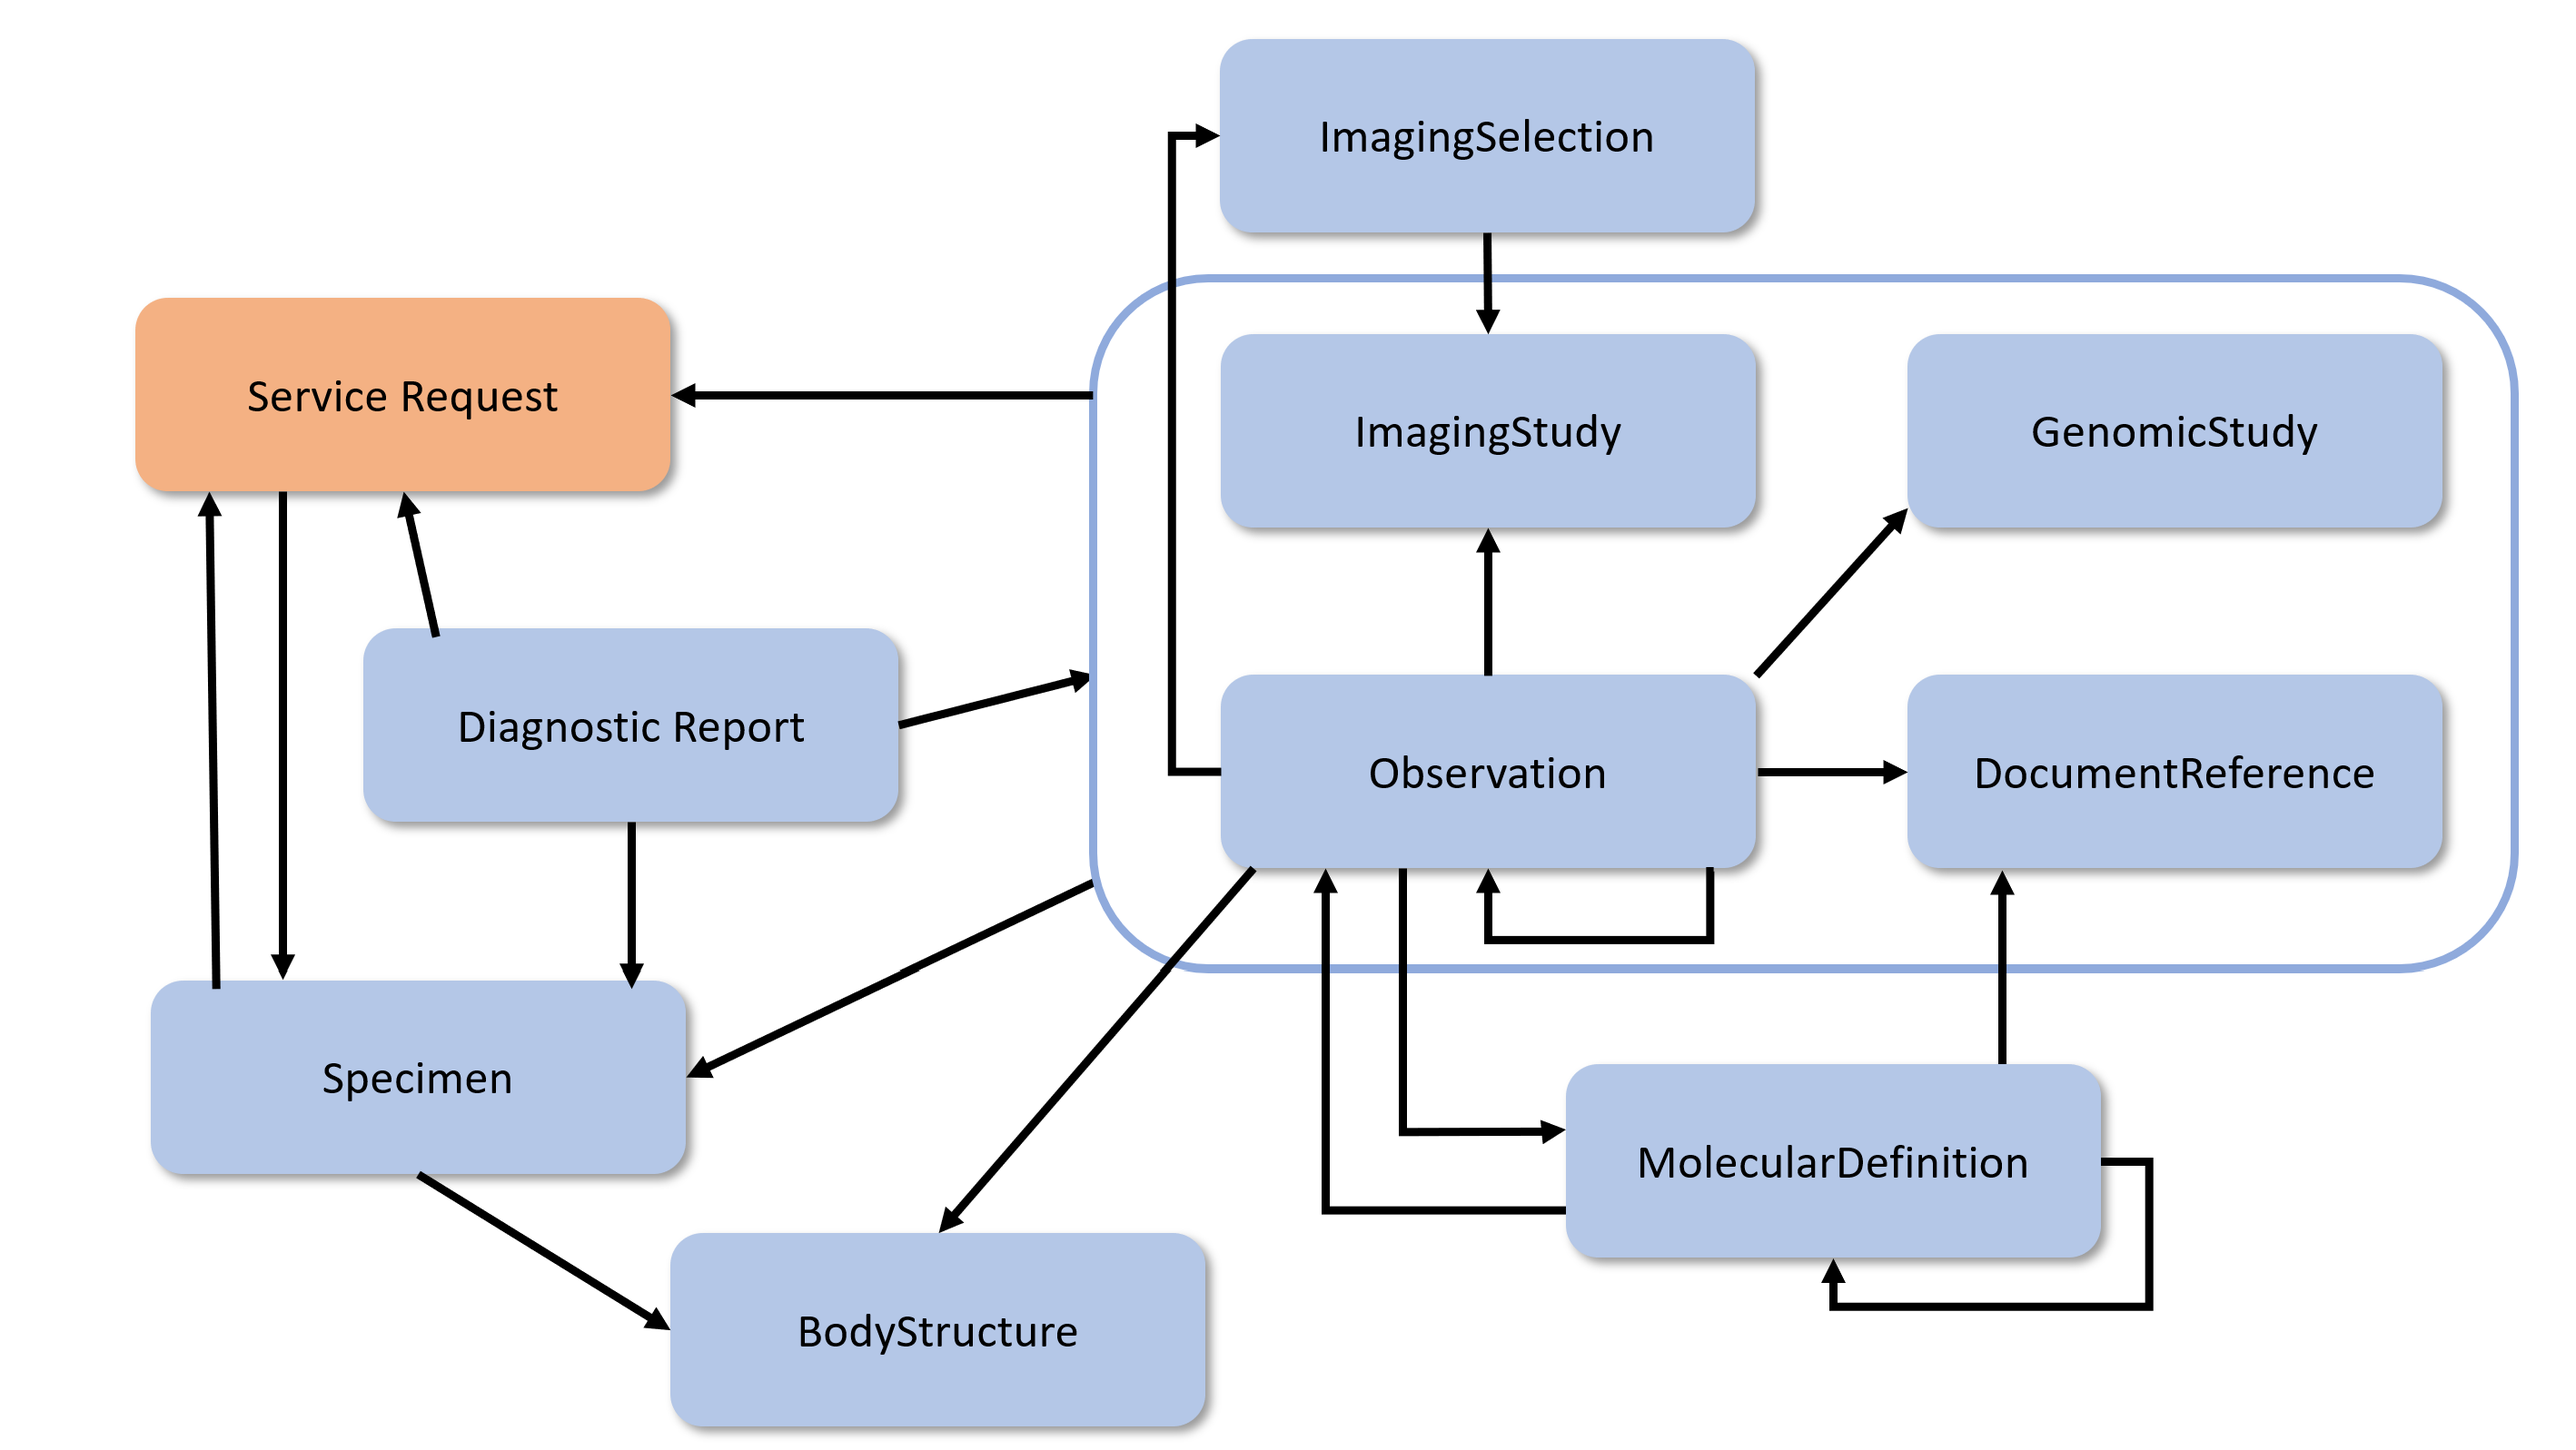
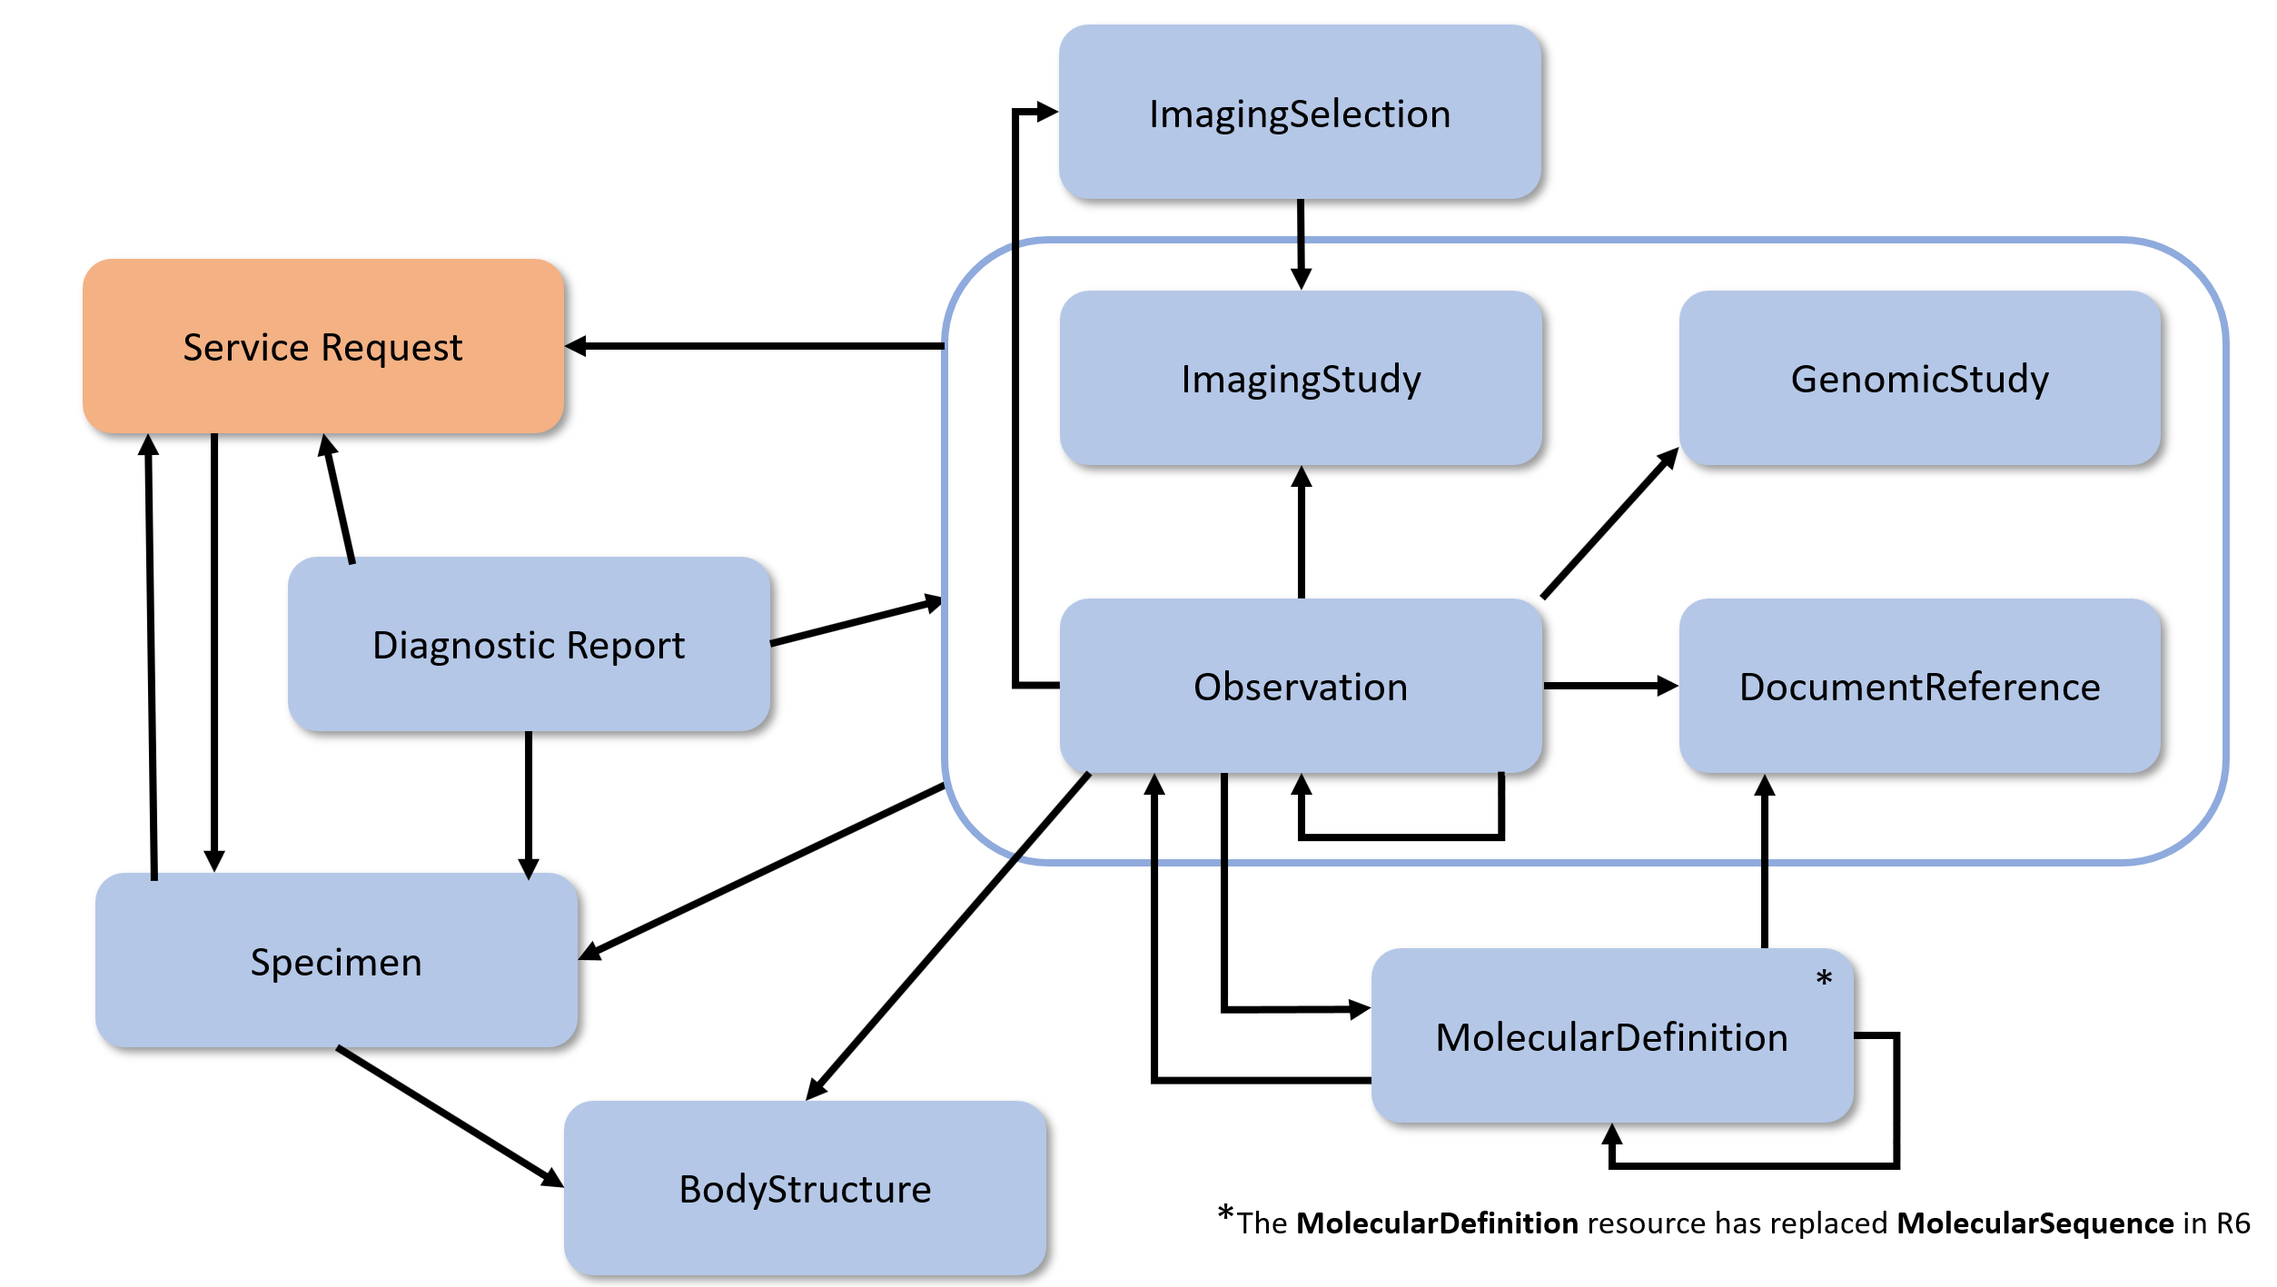
FHIR-51647, FHIR-50365 Fixing Dx Madule page after bad git merge issues

diff --git a/source/diagnostics-module.html b/source/diagnostics-module.html
@@ -87,23 +87,30 @@ in order to support consistent definitions for schema and UML derived code.
     Diagnostic resources for Clinical Genomic Reporting and Analysis.
     [%end-note%]
 
-    <table class="bare">
-        <tr>
-            <td><b>Name</b></td>
-            <td><b>Aliases</b></td>
-            <td><b>Description</b></td>
-        </tr>
-        [%res-item Observation%]
-        [%res-item DiagnosticReport%]
-        [%res-item ServiceRequest%]
-        [%res-item DocumentReference%]
-        [%res-item ImagingSelection%]
-        [%res-item ImagingStudy%]
-        [%res-item MolecularDefinition%]
-        [%res-item GenomicsStudy%]
-        [%res-item Specimen%]
-        [%res-item BodyStructure%]
-    </table>
+    <div>
+        <table class="bare">
+            <tr>
+                <td><b>Name</b></td>
+                <td><b>Aliases</b></td>
+                <td><b>Description</b></td>
+            </tr>
+            [%res-item Observation%]
+            [%res-item DiagnosticReport%]
+            [%res-item ServiceRequest%]
+            [%res-item DocumentReference%]
+            [%res-item ImagingSelection%]
+            [%res-item ImagingStudy%]
+            [%res-item MolecularDefinition%]
+            [%res-item GenomicStudy%]
+            [%res-item Specimen%]
+            [%res-item BodyStructure%]
+        </table>
+        <figure>Table 1: Indicates the FHIR Resources that are involved in Diagnostics.</figure>
+
+        [%impl-note%]
+        Molecular Sequence resource has been replaced by the <a href="moleculardefinition.html">Molecular Definition</a> resource. The MolecularSequence information is temporarily available for backward compatibility purposes.
+        [%end-note%]
+    </div>
 
     <a name="org-dr-obs"></a>
     <h3>Organizing Related DiagnosticReport and Observation Resources</h3>
@@ -350,7 +357,8 @@ in order to support consistent definitions for schema and UML derived code.
         <li>The <em>Specimen</em> resource is expected to undergo further development as a focus of ongoing work group efforts. We expect to see more widespread use of this resource which will help to increase its maturity(currently at FMM=2).</li>
         <li>The <em>ImagingStudy</em> resource has been tested and used in production tooling and has reached maturity level FMM=4.</li>
         <li>The <em>ImagingSelection</em> resource is relatively immature at FMM=1 (added in R5). We are looking for implementer feedback to advance its maturity.</li>
-        <li>The <em>MolecularDefinition</em> resource has had some limited testing and use. Changes have been made to improve the ability to represent genomic concepts. It remains at FMM=0.</li>
+        <li>The <em>MolecularDefinition</em> resource is replacing MolecularSequence. It includes definitional content for a molecular entity, such as a nucleotide or protein sequence. This resource is in trial-use and is relatively immature at FMM=0.</li>
+        <li>The <em>MolecularSequence</em> resource will be removed in future releases and content replaced by MolecularDefinition.</li>
         <li>The <em>GenomicStudy</em> resource was introduced in R5. It represents a set of analyses performed to analyze and generate genomic data and is at FMM=1. Further use of this resource in production tooling is needed for it to reach a more stable FMM level.</li>
         <li>The <em>BodyStructure</em> resource is relatively immature at FMM=1. Changes have been made to support greater precision of body location identification based on feedback that has been received, and we expect to receive additional implementation feedback which will help increase the resource maturity level.</li>
     </ul>
